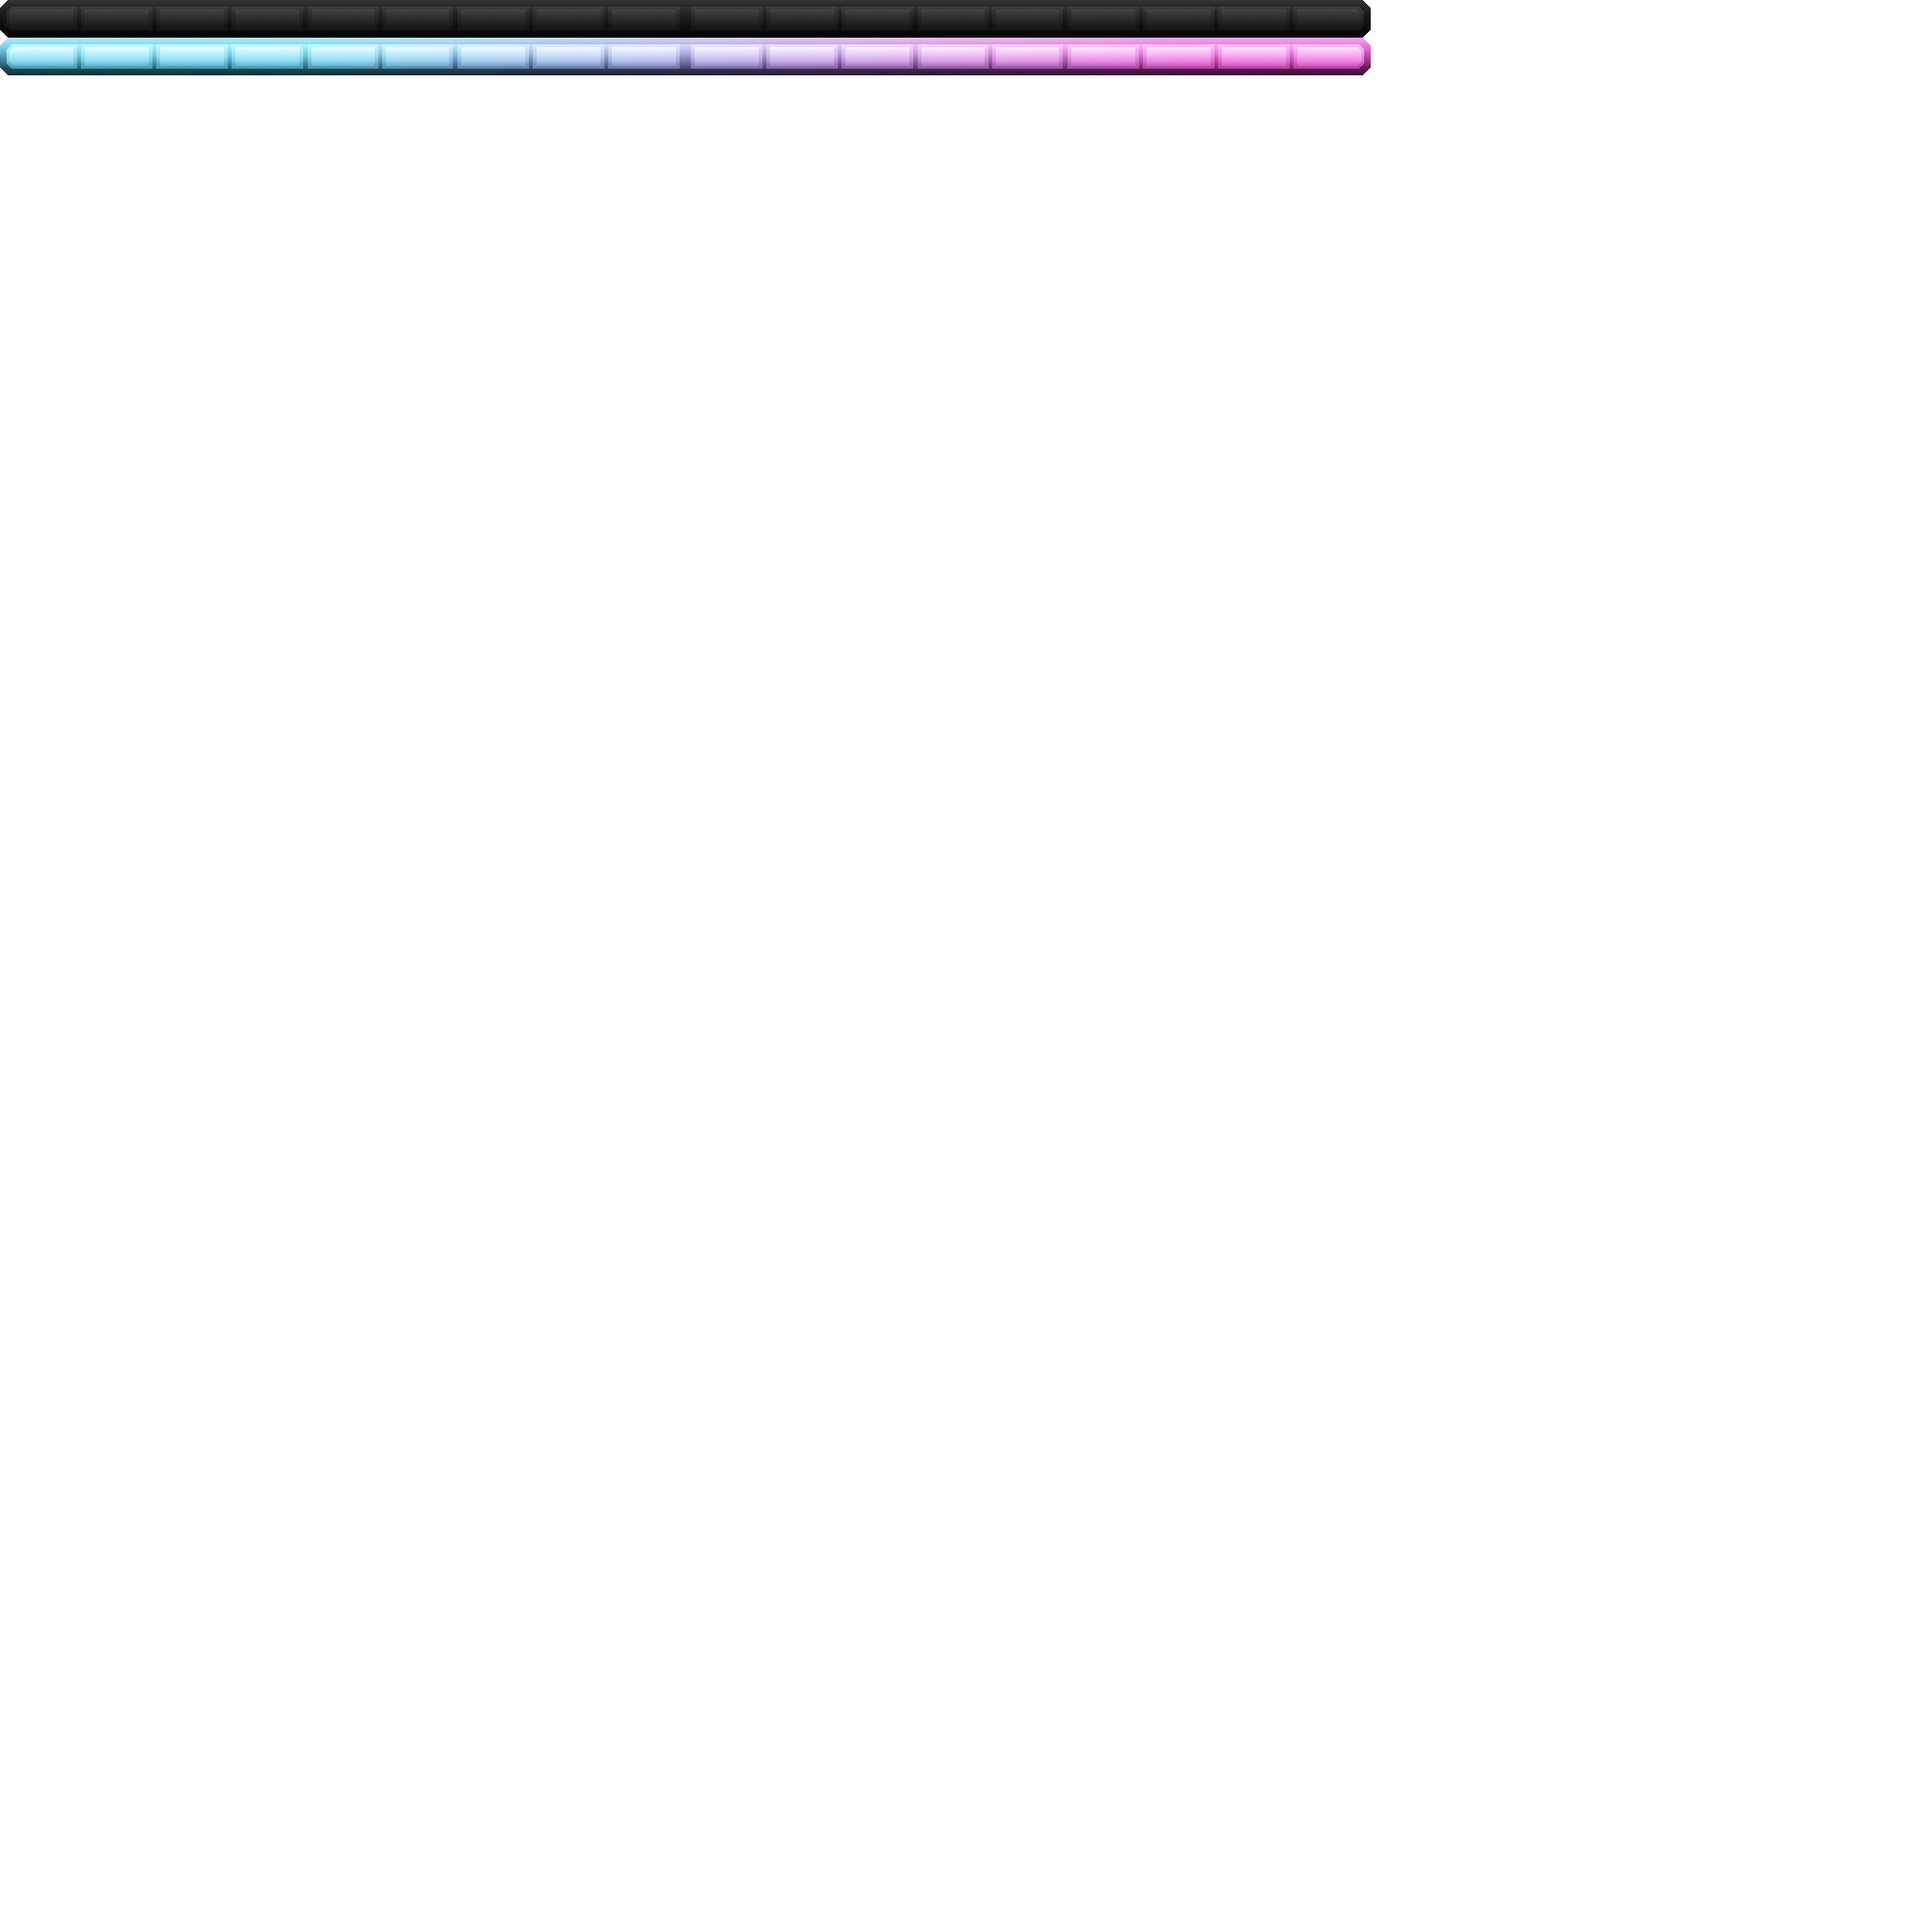
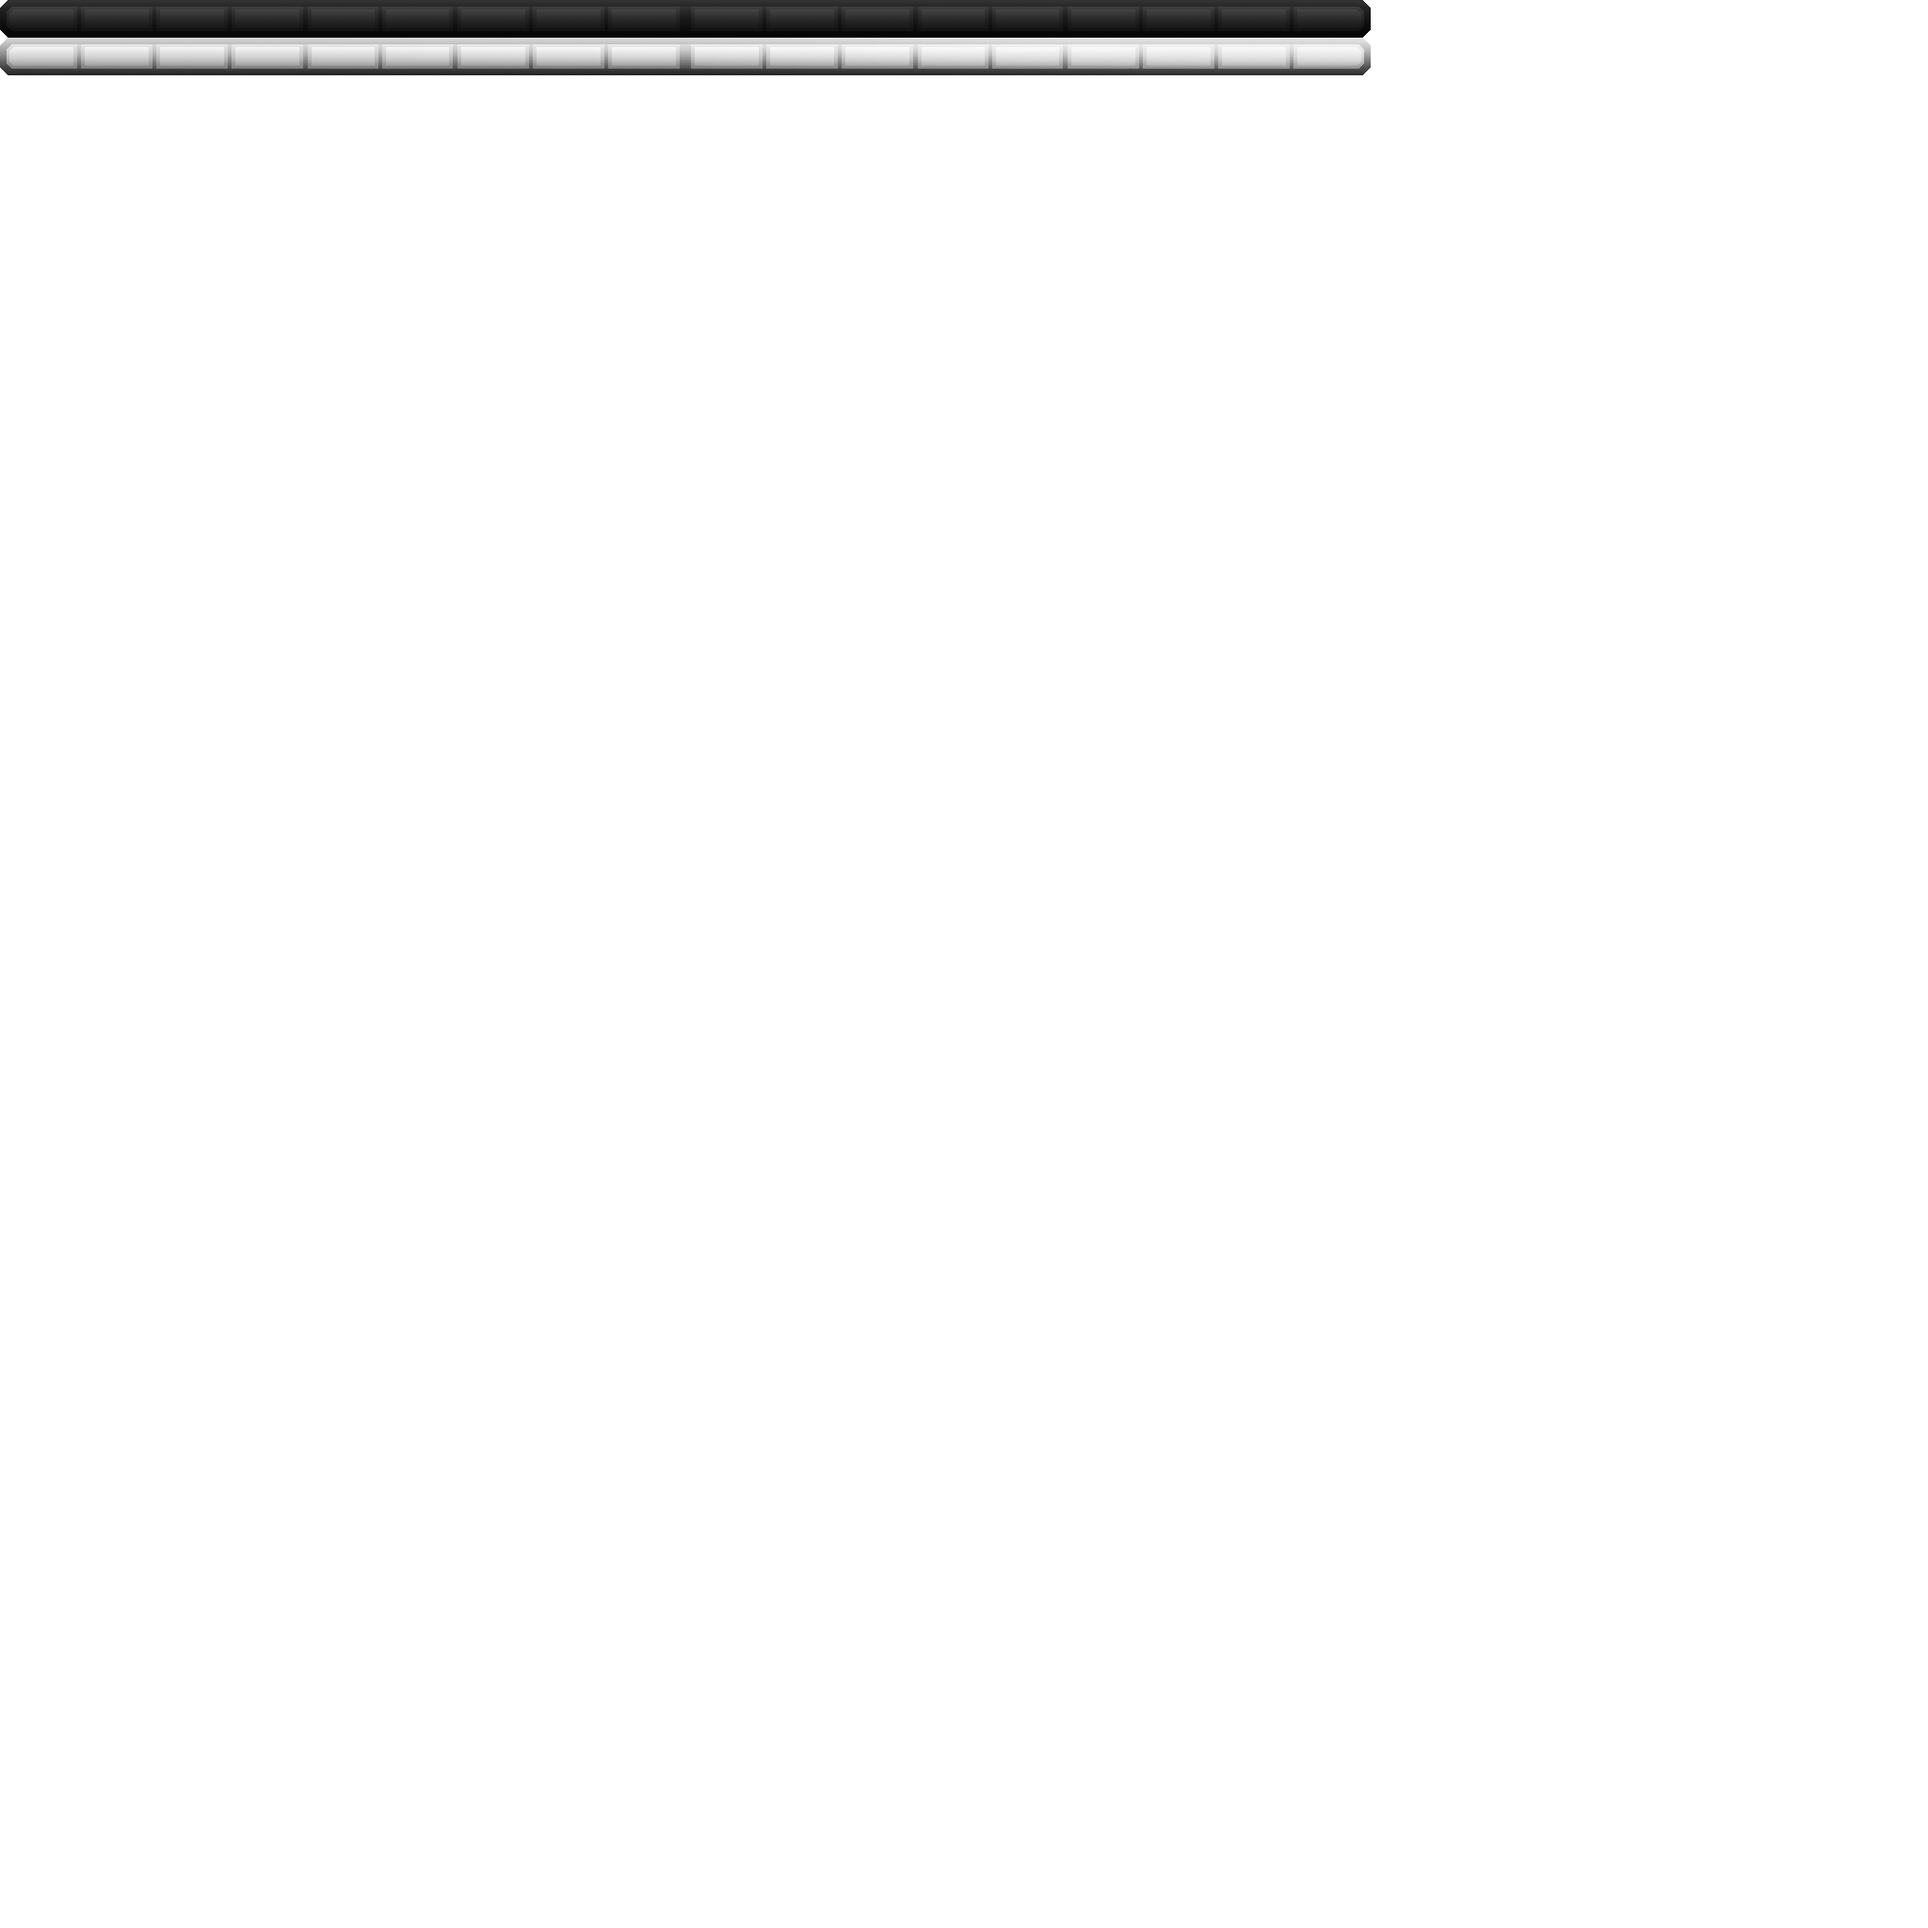
per skill bar color

Changed region(s): [[0.0, 0.0, 0.7188, 0.0625]]

diff --git a/src/main/java/at/hannibal2/skyhanni/features/skillprogress/SkillProgress.kt b/src/main/java/at/hannibal2/skyhanni/features/skillprogress/SkillProgress.kt
@@ -104,12 +104,16 @@ object SkillProgress {
     }
 
     private fun renderBar() {
+        val skill = activeSkill ?: return
+        val color = if (barConfig.colorPerSkill) SkillType.getBarColor(skill) else barConfig.barStartColor
+
         val progress = if (barConfig.useTexturedBar.get()) {
             val factor = (skillExpPercentage.toFloat().coerceAtMost(1f)) * 182
             maxWidth = 182
             Renderable.progressBar(
                 percent = factor.toDouble(),
-                startColor = Color(SpecialColour.specialToChromaRGB(barConfig.barStartColor)),
+                startColor = Color(SpecialColour.specialToChromaRGB(color)),
+                endColor = Color(SpecialColour.specialToChromaRGB(color)),
                 texture = barConfig.texturedBar.usedTexture.get(),
                 useChroma = barConfig.useChroma.get())
 
@@ -117,8 +121,8 @@ object SkillProgress {
             maxWidth = barConfig.regularBar.width
             Renderable.progressBar(
                 percent = skillExpPercentage,
-                startColor = Color(SpecialColour.specialToChromaRGB(barConfig.barStartColor)),
-                endColor = Color(SpecialColour.specialToChromaRGB(barConfig.barStartColor)),
+                startColor = Color(SpecialColour.specialToChromaRGB(color)),
+                endColor = Color(SpecialColour.specialToChromaRGB(color)),
                 width = maxWidth,
                 height = barConfig.regularBar.height,
                 useChroma = barConfig.useChroma.get())

diff --git a/src/main/java/at/hannibal2/skyhanni/features/skillprogress/SkillType.kt b/src/main/java/at/hannibal2/skyhanni/features/skillprogress/SkillType.kt
@@ -1,5 +1,6 @@
 package at.hannibal2.skyhanni.features.skillprogress
 
+import at.hannibal2.skyhanni.SkyHanniMod
 import io.github.moulberry.notenoughupdates.util.Utils
 import net.minecraft.block.Block
 import net.minecraft.init.Blocks
@@ -32,5 +33,20 @@ enum class SkillType(val displayName: String, icon: Item) {
 
         fun getByNameOrNull(name: String) =
             entries.firstOrNull { it.displayName.lowercase() == name.lowercase() }
+
+        fun getBarColor(type: SkillType): String {
+            val barConfig = SkyHanniMod.feature.skillProgress.skillProgressBarConfig
+            return when (type) {
+                COMBAT -> barConfig.combatBarColor
+                FARMING -> barConfig.farmingBarColor
+                FISHING -> barConfig.fishingBarColor
+                FORAGING -> barConfig.foragingBarColor
+                ENCHANTING -> barConfig.enchantingBarColor
+                ALCHEMY -> barConfig.alchemyBarColor
+                CARPENTRY -> barConfig.carpentryBarColor
+                TAMING -> barConfig.tamingBarColor
+                else -> "0:245:85:255:85"
+            }
+        }
     }
 }

diff --git a/src/main/java/at/hannibal2/skyhanni/config/features/skillprogress/SkillProgressBarConfig.java b/src/main/java/at/hannibal2/skyhanni/config/features/skillprogress/SkillProgressBarConfig.java
@@ -104,4 +104,54 @@ public class SkillProgressBarConfig {
         @ConfigEditorSlider(minStep = 1, minValue = 3, maxValue = 15)
         public int height = 6;
     }
+
+    @Expose
+    @ConfigOption(name = "Color Per Skill", desc = "Change the bar color depending of the skill.")
+    @ConfigEditorBoolean
+    public boolean colorPerSkill = false;
+
+    @Expose
+    @ConfigOption(name = "Combat", desc = "Color for the combat bar.")
+    @ConfigEditorColour
+    public String combatBarColor = "0:245:255:0:59";
+
+    @Expose
+    @ConfigOption(name = "Farming", desc = "Color for the farming bar.")
+    @ConfigEditorColour
+    public String farmingBarColor = "0:245:85:255:85";
+
+    @Expose
+    @ConfigOption(name = "Fishing", desc = "Color for the fishing bar.")
+    @ConfigEditorColour
+    public String fishingBarColor = "0:245:0:64:255";
+
+    @Expose
+    @ConfigOption(name = "Mining", desc = "Color for the mining bar.")
+    @ConfigEditorColour
+    public String miningBarColor = "0:245:0:255:249";
+
+    @Expose
+    @ConfigOption(name = "Foraging", desc = "Color for the foraging bar.")
+    @ConfigEditorColour
+    public String foragingBarColor = "0:245:30:126:0";
+
+    @Expose
+    @ConfigOption(name = "Enchanting", desc = "Color for the enchanting bar.")
+    @ConfigEditorColour
+    public String enchantingBarColor = "0:255:255:248:0";
+
+    @Expose
+    @ConfigOption(name = "Alchemy", desc = "Color for the alchemy bar.")
+    @ConfigEditorColour
+    public String alchemyBarColor = "0:245:255:141:206";
+
+    @Expose
+    @ConfigOption(name = "Carpentry", desc = "Color for the carpentry bar.")
+    @ConfigEditorColour
+    public String carpentryBarColor = "0:245:255:250:242";
+
+    @Expose
+    @ConfigOption(name = "Taming", desc = "Color for the taming bar.")
+    @ConfigEditorColour
+    public String tamingBarColor = "0:245:255:0:171";
 }
